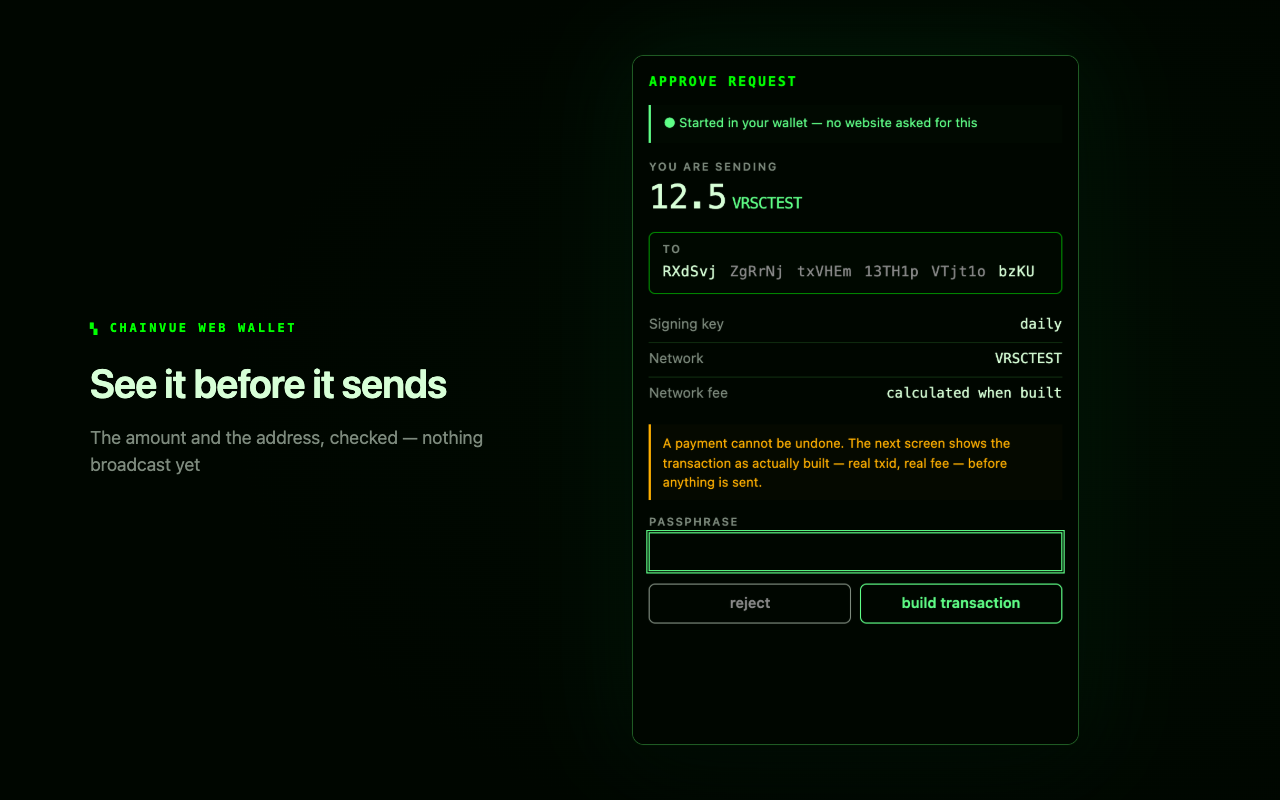
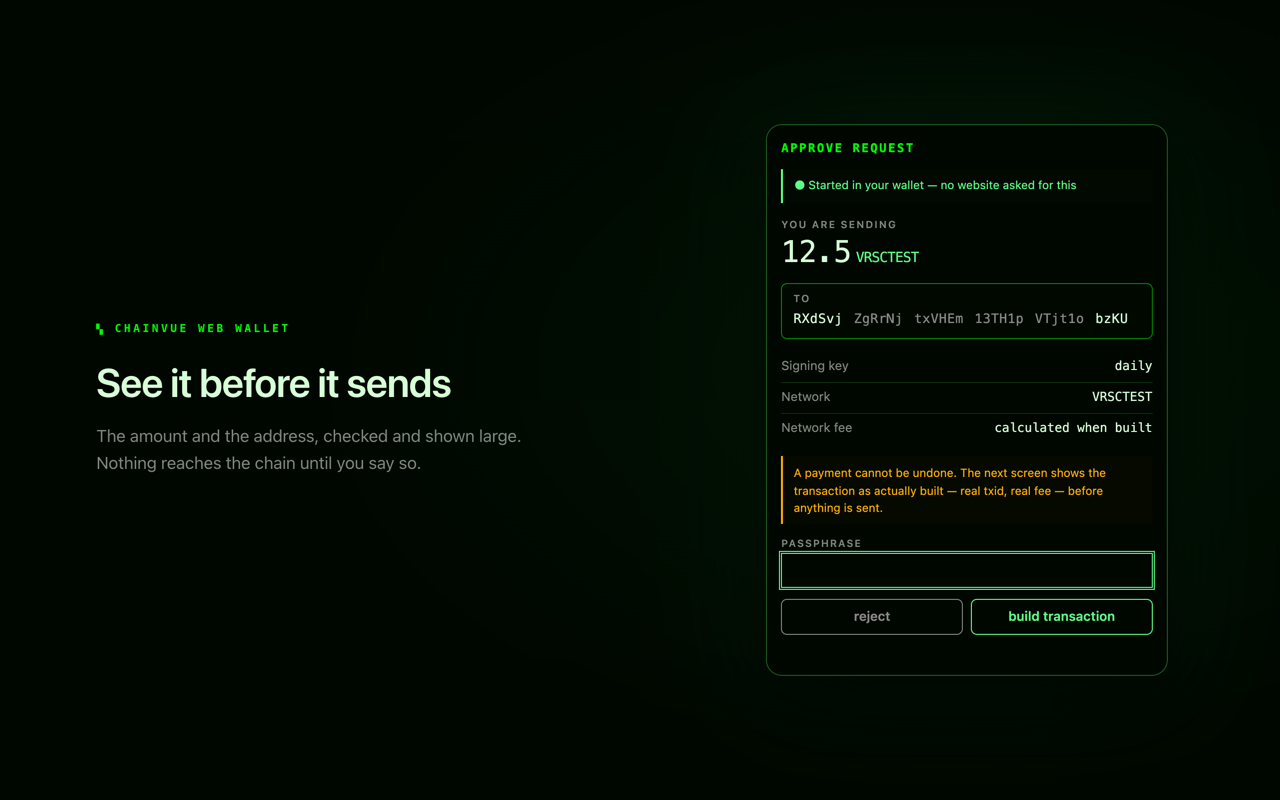
fix: sharp store screenshots, and a back button that stretched
The screenshots were soft. A 2x capture scaled to 690px is a 1.74:1 resize, and
resampling text bitmaps by a fraction is exactly what makes them mushy.

Captures are now taken at 4x and composed at 2x, then halved to 1280x800, so
every stage reduces and none invents pixels. Each is cropped to what is actually
drawn rather than to the viewport — the send view is 405px of content, and the
250px of empty ground under it read as a mistake. A view genuinely longer than
the frame now fades at the bottom: a hard cut looks like a broken screenshot,
a fade looks like a wallet you can scroll.

Composing them found a real bug. `button` carries `flex: 1` so it fills a row of
buttons, which also applied to the back chip in the top bar — "← Send" was
stretching across the whole bar. Visible in every screenshot and easy to miss in
use, since it still worked.

`claim.png` is gone. Its caption was about finishing a half-done VerusID claim,
but on a wallet with real balances that panel sits below the fold, so the image
showed a balance list instead. Replaced with the receive view, which is
self-contained and covers being paid — something the set was missing.

diff --git a/src/ui/style.css b/src/ui/style.css
@@ -379,6 +379,10 @@ hr { border: none; border-top: 1px solid var(--frame); margin: 0.8rem 0; }
 /* A select inherits the full-width rule above; as a chip it must not. */
 select.chip { width: auto; max-width: 11rem; padding-right: 1.2rem; }
 .sec-head .chip { flex: 0 0 auto; }
+/* And a chip inside the top bar is a back control, not a banner: `button` has
+   `flex: 1` from the button rule, so without this the "← Send" chip stretched
+   the whole width of the bar. */
+.bar .chip { flex: 0 0 auto; }
 
 /* Controls are chrome, so they take the UI face. Monospace is kept for values,
    where character alignment is the point — a button label is not a value. */

diff --git a/store/listing.md b/store/listing.md
@@ -156,9 +156,19 @@ Four worth having, in this order — the first is the one most people see:
    registration is visible and recoverable.
 
 Four are in `store/screenshots/`, at 1280×800: `balances.png`, `approve.png`,
-`send.png`, `claim.png`. Each is the real UI captured from the loaded extension
-and composed on the wallet's own ground, with a short caption that adds
-something rather than repeating the description.
+`send.png`, `receive.png`. Each is the real UI captured from the loaded
+extension and composed on the wallet's own ground, with a short caption that
+adds something rather than repeating the description.
+
+Captured at 4× and composed at 2×, then halved — every step is a reduction, so
+the type stays sharp. Each capture is cropped to the height of what is actually
+drawn; a view longer than the frame fades at the bottom rather than being cut,
+because a hard edge reads as a broken screenshot while a fade reads as a wallet
+you can scroll.
+
+`claim.png` was dropped: the claims-in-progress panel sits below the fold on a
+wallet with real balances, so the screenshot did not show what its caption
+promised.
 
 Still missing: the built transaction, stage two. It needs a funded testnet key
 so the txid and fee are real, and faking one is a policy problem rather than a
